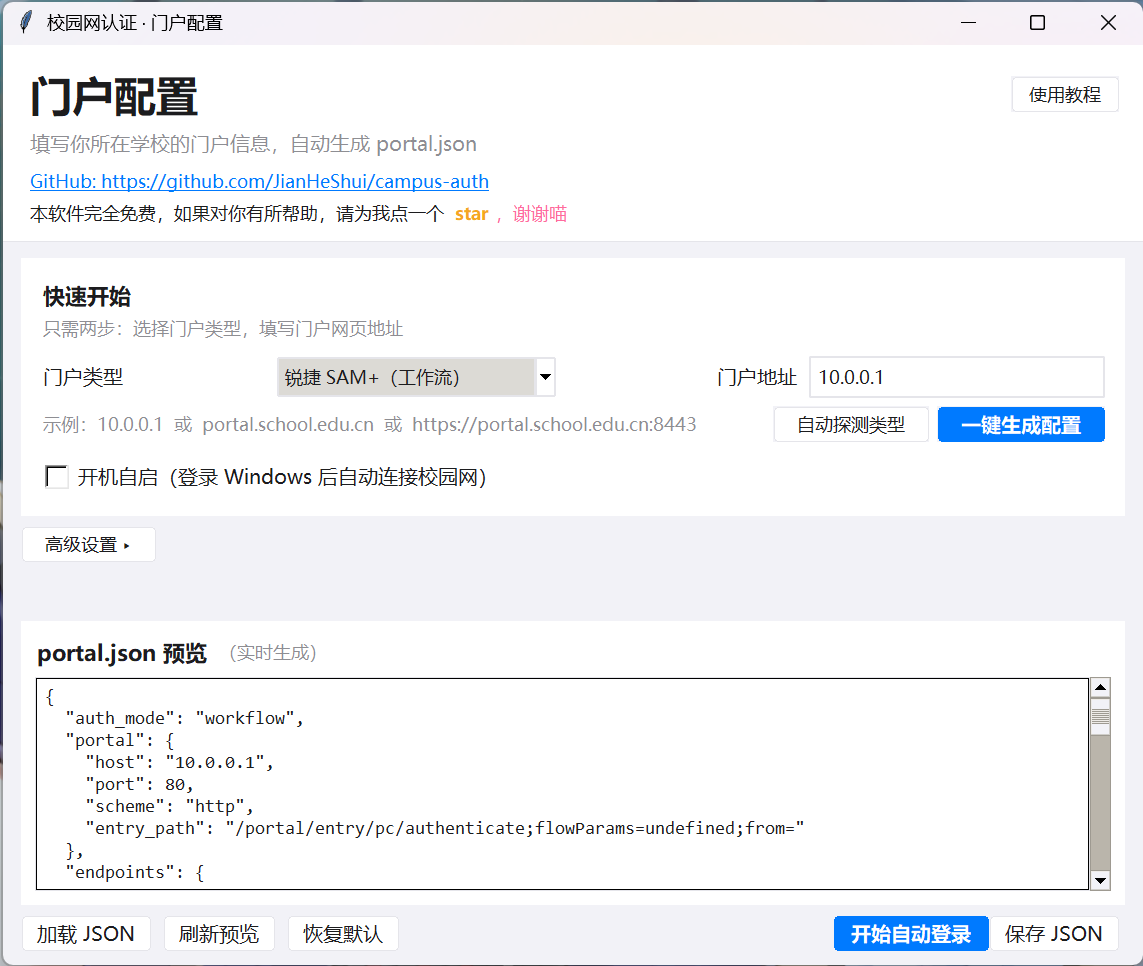
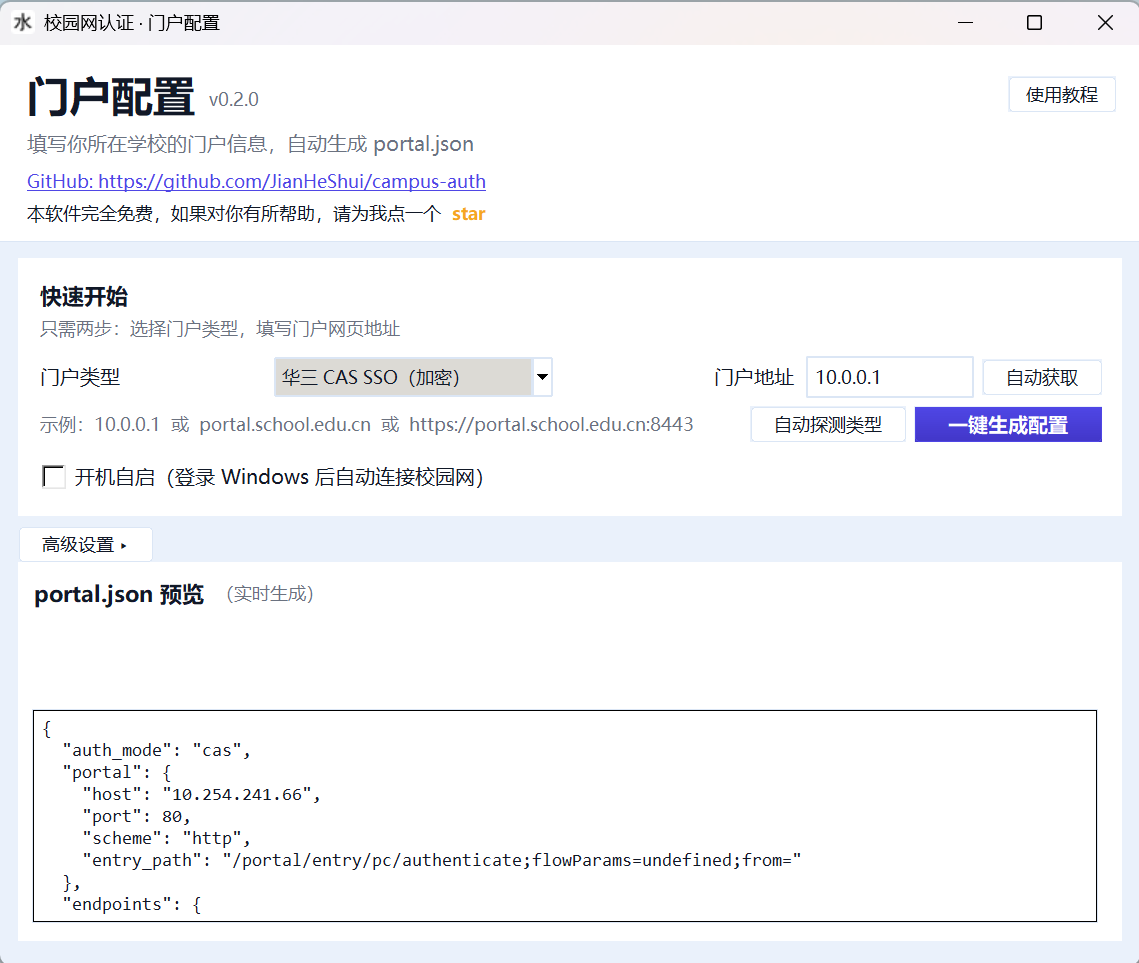
docs: 更新配置界面截图；fix: 门户地址框与预览同步

diff --git a/campus_auth/config_gui.py b/campus_auth/config_gui.py
@@ -1049,6 +1049,15 @@ class ConfigWindow:
             else:
                 _set(data, key, value)
         data["auth_mode"] = self.mode_var.get()
+        # 门户地址以快速开始区的输入框为准（保证输入框与预览一致）
+        if self.address_var is not None:
+            addr = self.address_var.get().strip()
+            if addr:
+                host, port, scheme = _parse_address(addr)
+                if host:
+                    data["portal"]["host"] = host
+                    data["portal"]["port"] = port
+                    data["portal"]["scheme"] = scheme
         hosts = [h.strip() for h in data["connectivity"]["probe_hosts"].split(",") if h.strip()] \
             if isinstance(data["connectivity"].get("probe_hosts"), str) else data["connectivity"]["probe_hosts"]
         data["connectivity"]["probe_hosts"] = hosts or ["www.baidu.com", "www.qq.com"]
@@ -1070,6 +1079,9 @@ class ConfigWindow:
         """把 dict 填进表单。"""
         auth = data.get("auth_mode", "workflow")
         self.mode_var.set(auth)
+        # 同步门户地址输入框（快速开始区独立于 vars，否则会与预览不一致）
+        if self.address_var is not None:
+            self.address_var.set(str(data.get("portal", {}).get("host", "")))
         # 根据 auth_mode 同步模板下拉框，避免后续「一键生成」把模式覆盖回默认
         if self.template_var is not None:
             if auth == "cas":
